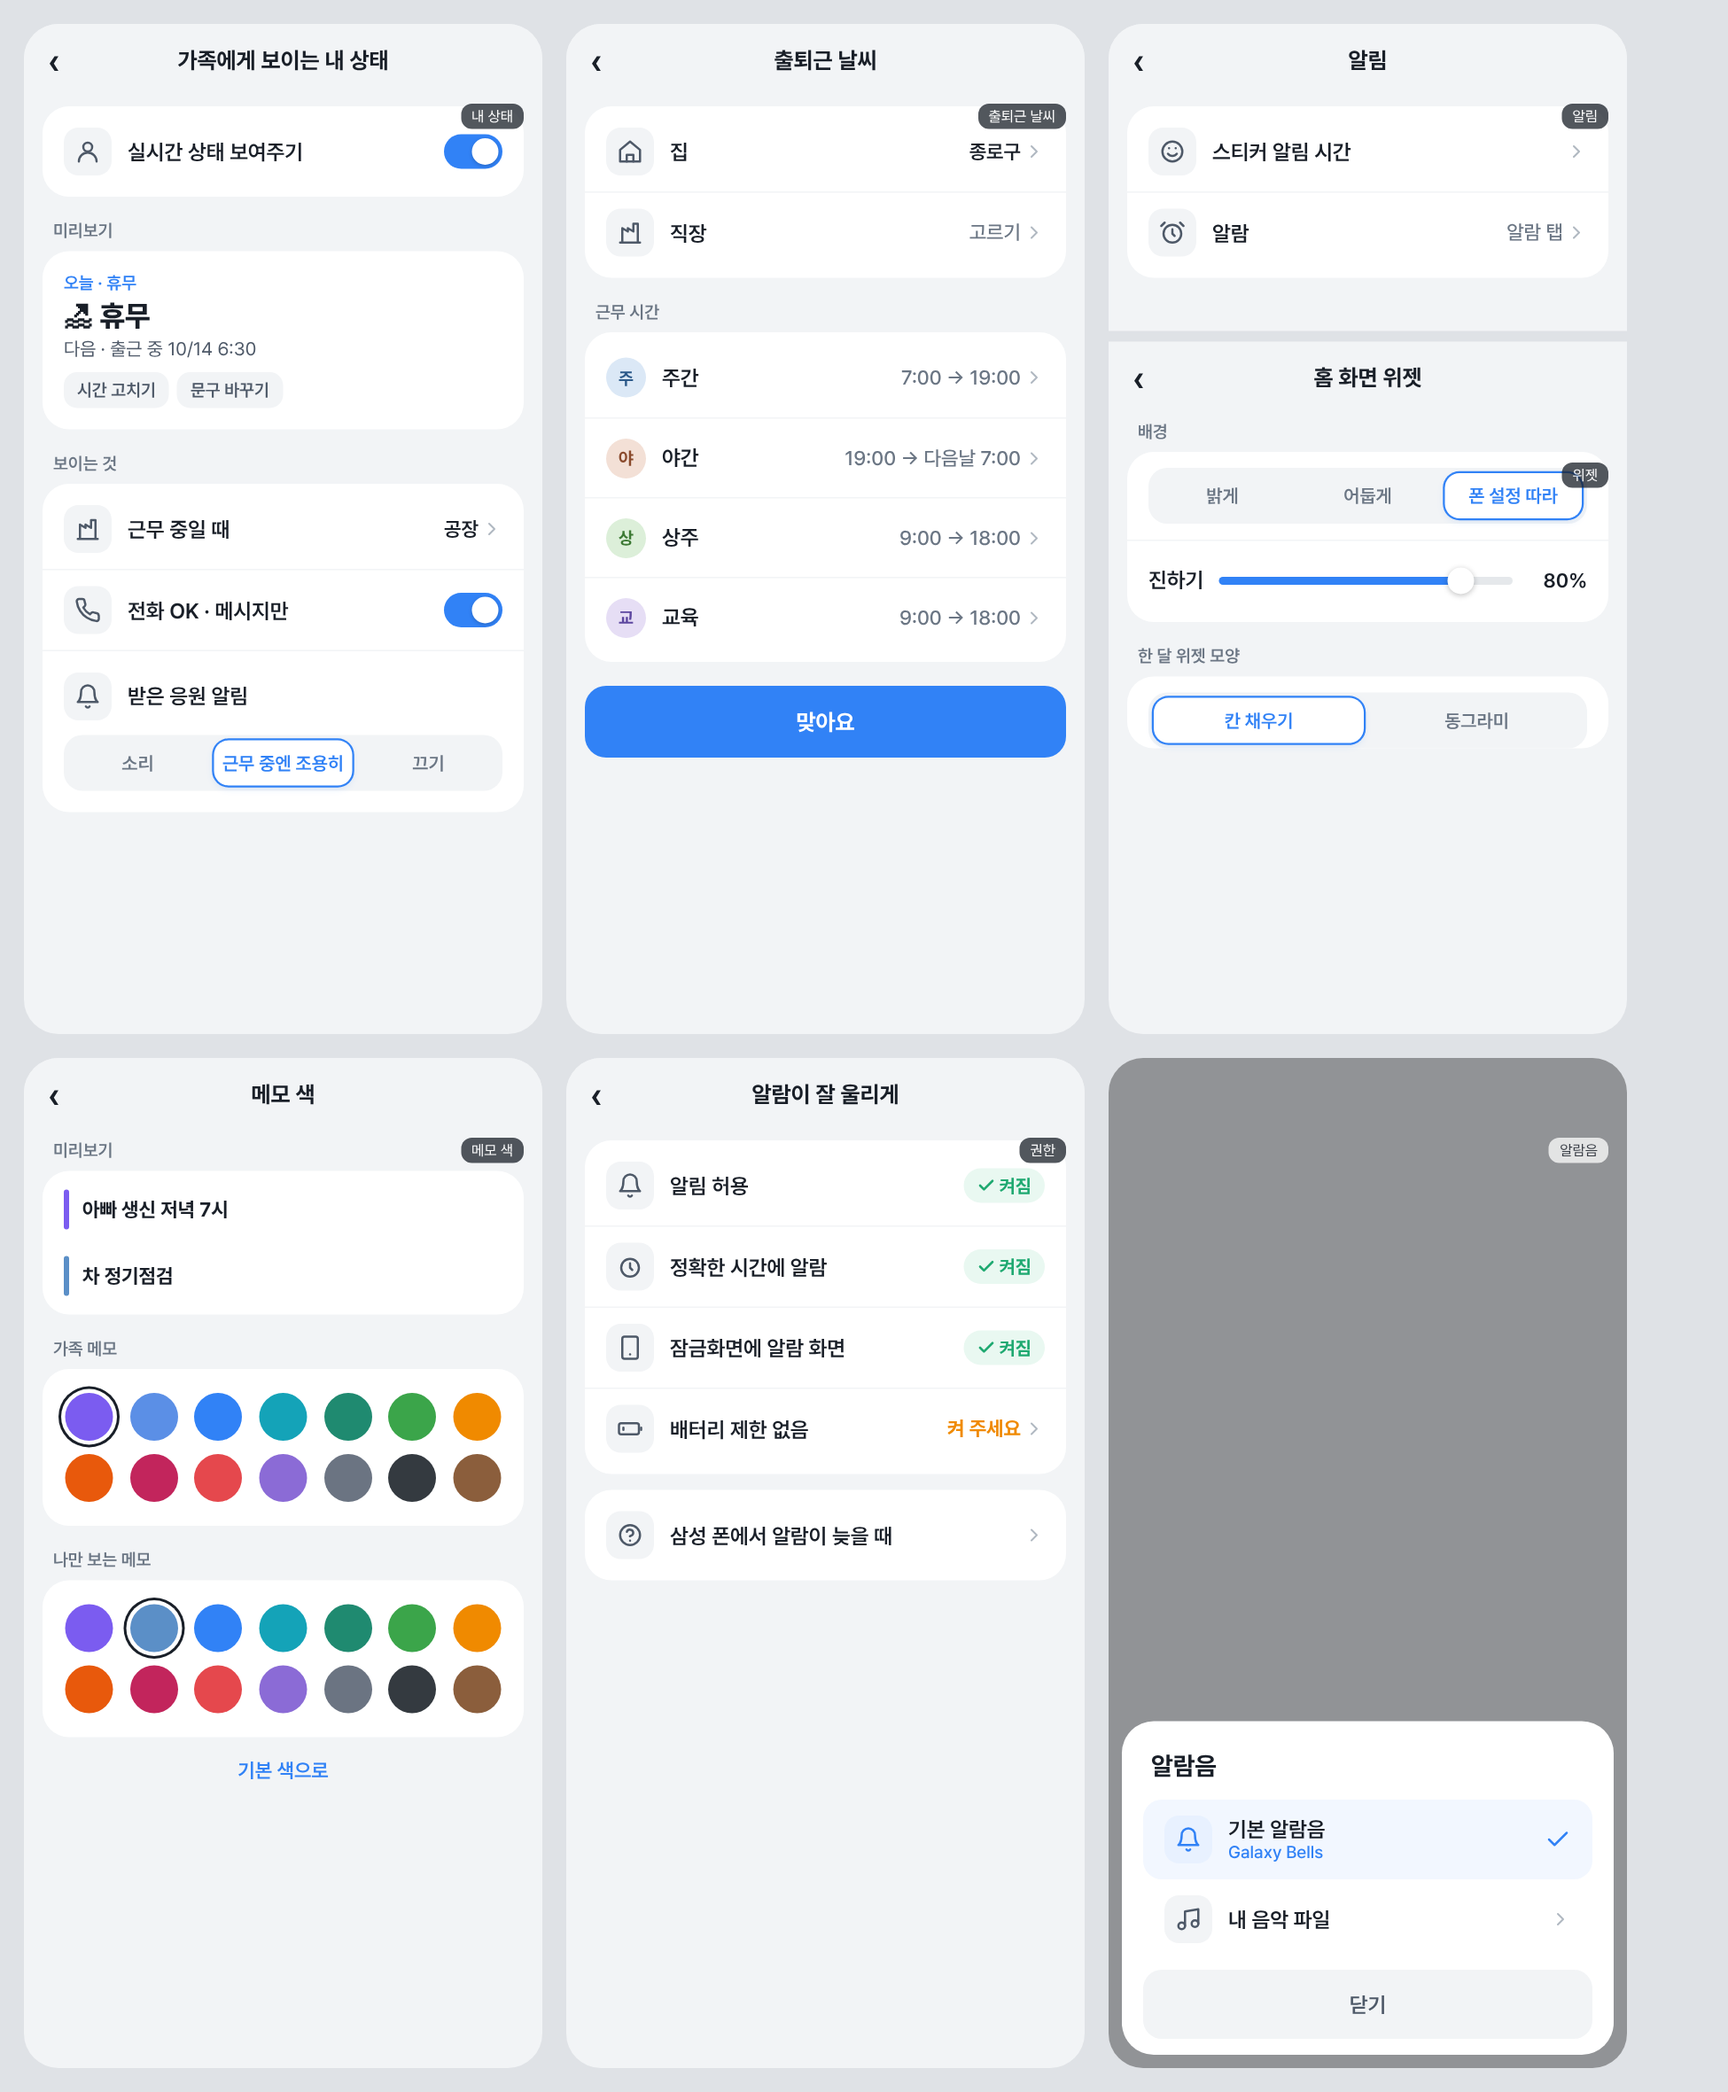
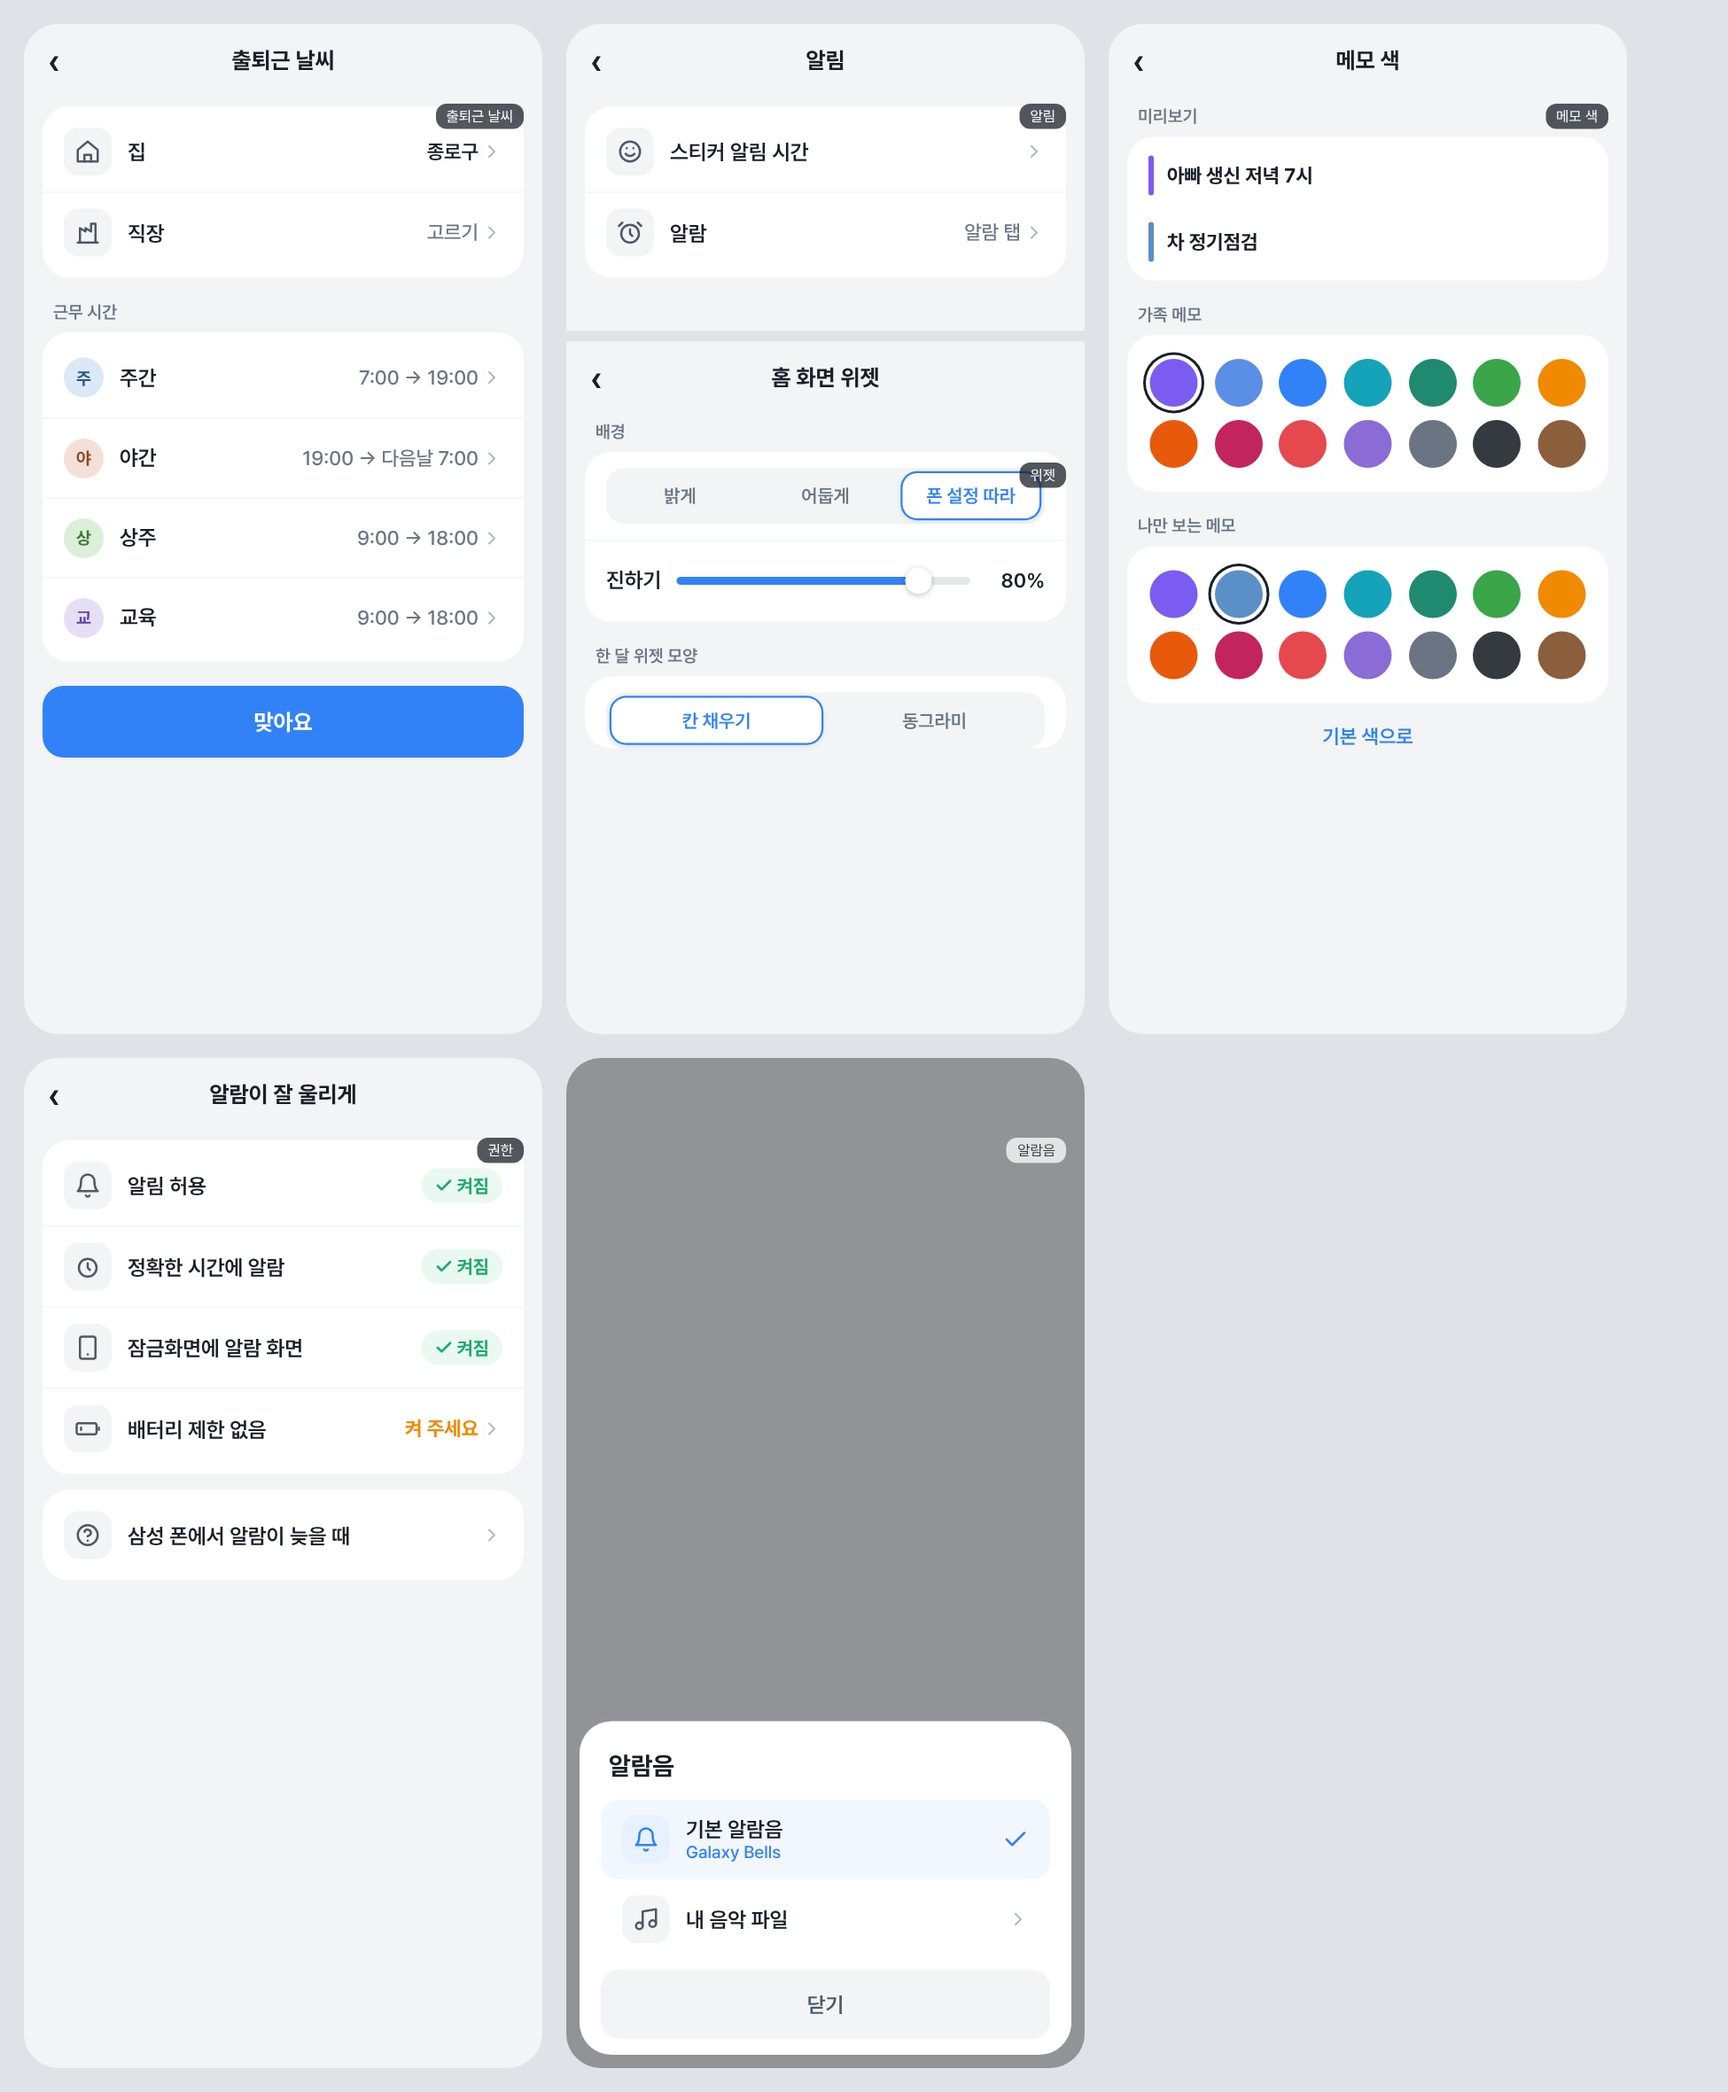
design: 1묶음 시안에서 내 상태 빼기 (없앤 기능)
Claude-Session: https://claude.ai/code/session_01JTBnEvptp151JygSjZNCTX

diff --git a/design/np1/v1.html b/design/np1/v1.html
@@ -34,20 +34,6 @@ svg{width:20px;height:20px;fill:none;stroke:currentColor;stroke-width:2;stroke-l
 .memo{display:flex;align-items:center;gap:10px;padding:10px 16px}.memo i{width:4px;height:30px;border-radius:2px}.memo b{font-size:15px}
 .lnk{text-align:center;color:#3182f6;font-weight:600;font-size:15px;padding:16px}
 </style></head><body>
-<!-- 1 내 상태 -->
-<div class="ph"><div class="hd">가족에게 보이는 내 상태</div>
-<div style="height:8px"></div>
-<div class="sec"><div class="row"><div class="ic"><svg viewBox="0 0 24 24"><circle cx="12" cy="8" r="4"/><path d="M4 21a8 8 0 0 1 16 0"/></svg></div><div class="nm">실시간 상태 보여주기</div><div class="sw on"></div></div></div>
-<div class="cap">미리보기</div>
-<div class="pre"><div class="t">오늘 · 휴무</div><div class="s">🏖 휴무</div><div style="font-size:14px;color:#4e5968">다음 · 출근 중 10/14 6:30</div><div class="chips"><span>시간 고치기</span><span>문구 바꾸기</span></div></div>
-<div class="cap">보이는 것</div>
-<div class="sec">
-<div class="row"><div class="ic"><svg viewBox="0 0 24 24"><path d="M3 21h18M5 21V8l5 3V8l5 3V4h4v17"/></svg></div><div class="nm">근무 중일 때</div><div class="v"><b>공장</b><svg class="ch" viewBox="0 0 24 24"><path d="m9 18 6-6-6-6"/></svg></div></div>
-<div class="row"><div class="ic"><svg viewBox="0 0 24 24"><path d="M22 16.9v3a2 2 0 0 1-2.2 2 19.8 19.8 0 0 1-8.6-3.1 19.5 19.5 0 0 1-6-6A19.8 19.8 0 0 1 2.1 4.2 2 2 0 0 1 4.1 2h3a2 2 0 0 1 2 1.7c.1.9.4 1.8.7 2.7a2 2 0 0 1-.5 2.1L8 9.8a16 16 0 0 0 6 6l1.3-1.3a2 2 0 0 1 2.1-.4c.9.3 1.8.6 2.7.7a2 2 0 0 1 1.7 2z"/></svg></div><div class="nm">전화 OK · 메시지만</div><div class="sw on"></div></div>
-<div class="row" style="padding-bottom:4px"><div class="ic"><svg viewBox="0 0 24 24"><path d="M6 8a6 6 0 0 1 12 0c0 7 3 9 3 9H3s3-2 3-9"/><path d="M10.3 21a1.94 1.94 0 0 0 3.4 0"/></svg></div><div class="nm">받은 응원 알림</div></div>
-<div class="seg"><div>소리</div><div class="on">근무 중엔 조용히</div><div>끄기</div></div>
-</div><div class="tag">내 상태</div></div>
-
 <!-- 2 출퇴근 날씨 -->
 <div class="ph"><div class="hd">출퇴근 날씨</div>
 <div style="height:8px"></div>

diff --git a/docs/TODO.md b/docs/TODO.md
@@ -2550,7 +2550,7 @@
 - 관리자 폰: 구글 계정 연결(가족 › 구글 계정으로 가족방 지키기) 뒤 도움 · 정보에 "관리자" 줄이 보임.
 
 ## 아직 옛 모양인 화면 → 새 모양(.pg-b.np 카드 · 선 아이콘 · 설명 글 없음)으로 (사용자 2026-11-16 "빼먹은 예전 UI 찾아서")
-- 1묶음 · 자주 여는 설정: 알람음 고르기 창(시안 design/alarm-sound/v1.png 확정) · 근무 시간(openTimesPage) · 내 상태(openStatusPage) · 출퇴근 날씨(openWxPage) · 알림(openNotifPage) · 홈 화면 위젯(openWidgetPage) · 근무 색(openColorsPage) · 권한(openPermPage)
+- 1묶음 · 자주 여는 설정: 알람음 고르기 창(시안 design/alarm-sound/v1.png 확정) · 근무 시간(openTimesPage) · 출퇴근 날씨(openWxPage) · 알림(openNotifPage) · 홈 화면 위젯(openWidgetPage) · 근무 색(openColorsPage) · 권한(openPermPage)
 - 2묶음 · 스티커 · 할 일: 스티커 등록(renderStampReg) · 스티커판(openStickerBoard) · 할 일 판(openBoard) · 메모 자세히(renderMemoDetail) · 개인 일정(openPersPage) · 업무 일지 설정(openWlSet)
 - 3묶음 · 부가 기능: 근무 통계(openStatsPage) · 명세서(openSlipPage) · 근무 짝꿍(openCompPage) · 찾기(renderSrch)
 - 4묶음 · 작은 창 제목: 이모지 빼고 한 줄 제목 (🔐 가족방 지키기 · 🔁 반복 · 📝 · 📋 일지 이름 · 📅 이 날부터 새 일정 · 💌 응원 버튼 · 🏭 직장 · ☁ 백업해 둘까요? · 🗂 뗀 포스트잇)
